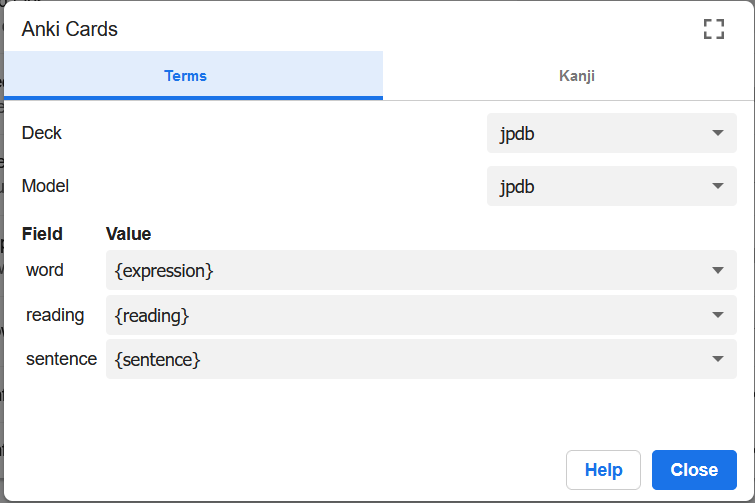
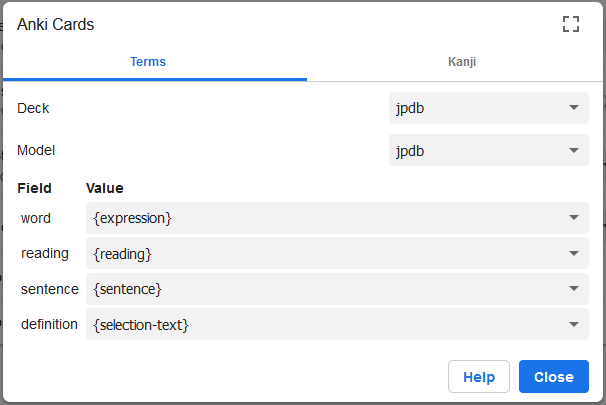
Update readme

diff --git a/Readme.md b/Readme.md
@@ -18,8 +18,11 @@ Set up Yomichan to look for a server at "localhost:3030".
 "Check for card duplicates" should be *off*. (the setting is only visible when advanced settings are turned on in yomichan)
 
 Click on "configure Anki card format" and set it up like this:
-
 ![](doc/yomichansetting2.png)
+*You may have to select a different model to refresh the list of fields if you don't see them all!*
+
+JPDB expects definitions to be plaintext, so it is recommended to use {selection-text} in stead of {glossary} for the definition field, to avoid HTML being generated by yomichan.
+This means you have to mouse select the text you want to include in the definition before creating a card.
 
 ## Configuration
 
